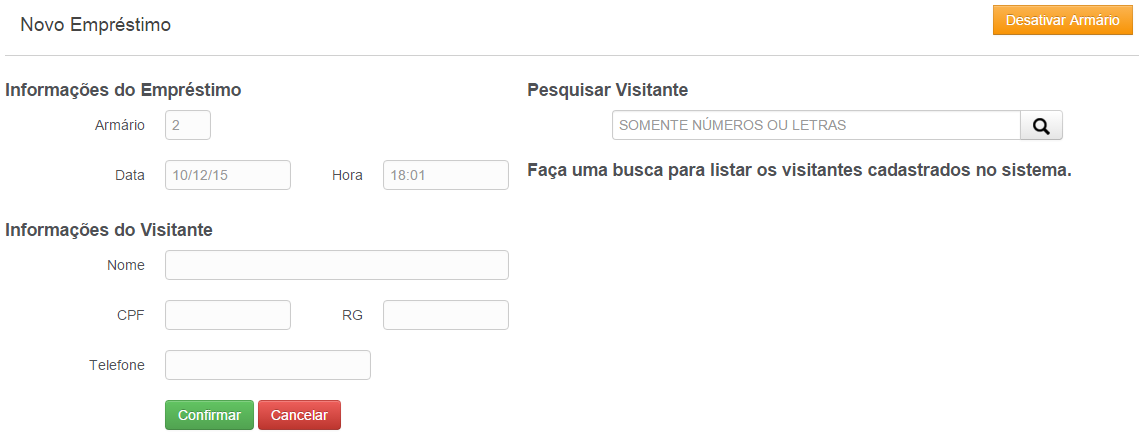
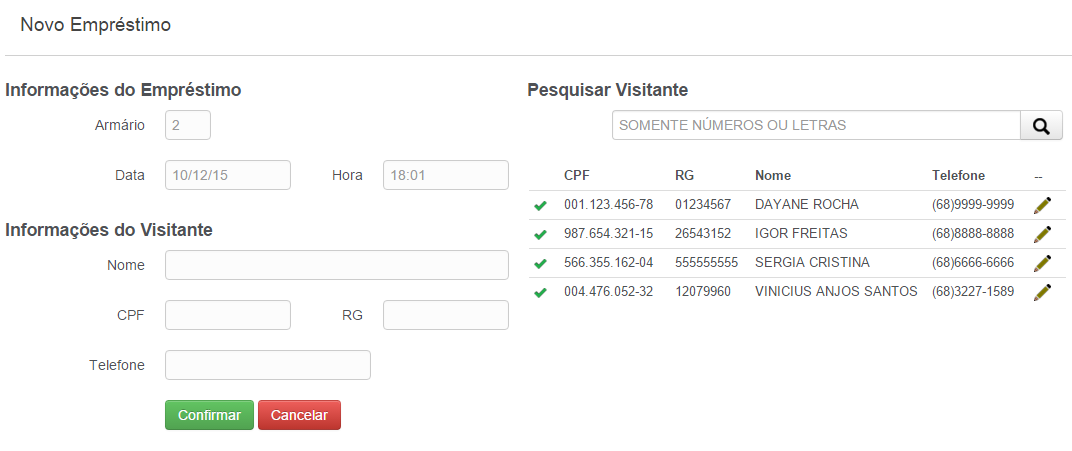
v.1.2.0

diff --git a/application/views/public/tour/presmapo.php b/application/views/public/tour/presmapo.php
@@ -53,8 +53,9 @@ defined('BASEPATH') OR exit('No direct script access allowed');
                                                                 Ao clicar em um botão de cor verde, é aberta a página de empréstimo.
                                                                 Nela temos as informações sobre o empréstimo e visitante, e um espaço
                                                                 para pesquisa, que pode ser feita por CPF, RG ou Nome.<br />
-                                                                Apos a pesquisa realizada, uma lista de usuários será carregada, onde deve-se clicar no ícone <img title="Selcionar" src="<?= base_url('assets/img/icon/select.png'); ?>" class="img-responsive" height="13" width="13">
-                                                                para selecionar o usuário.
+                                                                <h5>Veja que a forma de pesquisa mudou. Agora, basta digitar a informação de CPF, RG ou Nome, sem a necessidade de pontos ou traços, e pesquisar.</h5>
+                                                                Apos a pesquisa realizada, uma lista de visitantes será carregada, onde deve-se clicar no ícone <img title="Selcionar" src="<?= base_url('assets/img/icon/select.png'); ?>" class="img-responsive" height="13" width="13">
+                                                                para selecionar o visitante.
                                                                 Após selecionado, o empréstimo pode ser confirmado clicando no botão "Confirmar".
                                                             </p>
                                                         </div>
@@ -107,10 +108,11 @@ defined('BASEPATH') OR exit('No direct script access allowed');
                                                         <div class="caption">
                                                             <hr />
                                                             <p align="justify">
-                                                                Ao clicar em um botão de cor laranja, é aberta a página de reativação.
+                                                                Ao clicar em um botão de cor laranja, é aberta a página com informação sobre um armário desativado.
                                                                 Nela temos as informações sobre a desativação do armário, como data, hora e motivo. Não é possível editar
                                                                 nenhum destes campos, presentes apenas para informação.<br />
-                                                                Clicando no botão "Confirmar", a reativação é concluída e o armário passa a se tornar disponível para empréstimo.
+                                                                <h5>Perceba que a funcionalidade de desativar armários não está mais presente. Ela é, agora, exclusiva para os administradores do sistema.</h5>
+                                                                Clicando no botão "Voltar", você é redirecionado para a página de mapa de armários.
                                                             </p>
                                                         </div>
                                                     </div>

diff --git a/application/views/public/norole.php b/application/views/public/norole.php
@@ -1,41 +1,43 @@
 <?php
 defined('BASEPATH') OR exit('No direct script access allowed');
-
 ?>
 <!DOCTYPE html>
 <html lang="en">
     <head>
-        <title>CCB - Sobre</title>
+        <title>CCB - Sem permissão</title>
         <meta charset="utf-8">
-        <link href="<?= base_url('assets/css/bootstrap-responsive.css');?>" rel="stylesheet" media="screen">
-        <link href="<?= base_url('assets/css/bootstrap-responsive.min.css');?>" rel="stylesheet" media="screen">
-        <link href="<?= base_url('assets/css/bootstrap.css');?>" rel="stylesheet" media="screen">
-        <link href="<?= base_url('assets/css/bootstrap.min.css');?>" rel="stylesheet" media="screen">
-        <link href="<?= base_url('assets/css/codeigniter.css');?>" rel="stylesheet" media="screen">
+        <link href="<?= base_url('assets/css/bootstrap-responsive.css'); ?>" rel="stylesheet" media="screen">
+        <link href="<?= base_url('assets/css/bootstrap-responsive.min.css'); ?>" rel="stylesheet" media="screen">
+        <link href="<?= base_url('assets/css/bootstrap.css'); ?>" rel="stylesheet" media="screen">
+        <link href="<?= base_url('assets/css/bootstrap.min.css'); ?>" rel="stylesheet" media="screen">
+        <link href="<?= base_url('assets/css/codeigniter.css'); ?>" rel="stylesheet" media="screen">
+        <link rel="icon" href="<?= base_url(); ?>assets/img/favicon.png" type="image/x-icon" />
     </head>
     <body>
+
+        <div class="masthead">
+            <ul class="nav nav-pills pull-right">
+                <li class="active"><a href="<?= base_url('welcome'); ?>">Início</a></li>
+            </ul>
+            <h3 class="muted">Sistema de Controle de Chaves da Biblioteca</h3>
+        </div>
+        <hr>
         <div class="container">
             <div class="row">
-                <div class="jumbotron">
-                    <a class="btn btn-large btn-primary" href="<?= base_url();?>">Início</a>
-                </div>
-
-                <hr>
-
-                  <div class="row-fluid marketing">
-                    <div class="span12">
-                        <h2>Desculpe!</h2>
-                        <h4>
-                            <p>
-                                <br />
-                                Aparentemente você não tem permissão para acessar essa página. 
-                                <br />
-                                <br />
-                                Entre em contato com a Equipe de TI para mais informações.
-                            </p>
-                        </h4>
-                    </div>
+                <div class="row-fluid marketing">
+                  <div class="span12">
+                      <h2>Desculpe!</h2>
+                      <h4>
+                          <p>
+                              <br />
+                              Aparentemente você não tem permissão para acessar essa página. 
+                              <br />
+                              <br />
+                              Entre em contato com a Equipe de TI para mais informações.
+                          </p>
+                      </h4>
                   </div>
+                </div>
             </div>
         </div>
     </body>

diff --git a/application/views/public/tour/presmapg.php b/application/views/public/tour/presmapg.php
@@ -53,8 +53,11 @@ defined('BASEPATH') OR exit('No direct script access allowed');
                                                                 Ao clicar em um botão de cor verde, é aberta a página de empréstimo.
                                                                 Nela temos as informações sobre o empréstimo e visitante, e um espaço
                                                                 para pesquisa, que pode ser feita por CPF, RG ou Nome.<br />
+                                                                <h5>Veja que a forma de pesquisa mudou. Agora, basta digitar a informação de CPF, RG ou Nome, sem a necessidade de pontos ou traços, e pesquisar.</h5>
                                                                 Apos a pesquisa realizada, uma lista de visitantes será carregada, onde deve-se clicar no ícone <img title="Selcionar" src="<?= base_url('assets/img/icon/select.png'); ?>" class="img-responsive" height="13" width="13">
                                                                 para selecionar o visitante.
+                                                                <h5>Perceba que ao fim de cada visitante listado, temos um ícone de lápis. Ele serve como atalho para a página de edição
+                                                                    de visitante.</h5>
                                                                 Após selecionado, o empréstimo pode ser confirmado clicando no botão "Confirmar".
                                                             </p>
                                                         </div>

diff --git a/application/views/public/tour/presentrance.php b/application/views/public/tour/presentrance.php
@@ -44,8 +44,9 @@ defined('BASEPATH') OR exit('No direct script access allowed');
                                     Apos a pesquisa realizada, uma lista de usuários será carregada, onde deve-se clicar no ícone 
                                     <img title="Selcionar" src="<?= base_url('assets/img/icon/select.png'); ?>" class="img-responsive" 
                                          height="13" width="13"> para selecionar o usuário.<br />
+                                    <h5>Veja que a forma de pesquisa mudou. Agora, basta digitar a informação de CPF, RG ou Nome, sem a necessidade de pontos ou traços, e pesquisar.</h5>
                                     Após selecionado, o registro de entrada pode ser confirmado clicando no botão "Confirmar".<br />
-                                    Caso um usuário já tenha um emprástimo em curso, não é necessário registrar a entrada, pois ela é
+                                    Caso um usuário já tenha um empréstimo em curso, não é necessário registrar a entrada, pois ela é
                                     feita automaticamento ao emprestar uma chave.
                                 </p>
                             <br />

diff --git a/application/views/public/tour/presvisitors.php b/application/views/public/tour/presvisitors.php
@@ -53,6 +53,9 @@ defined('BASEPATH') OR exit('No direct script access allowed');
                                     - Clicando neste ícone, é aberta a página para edição do cadastro do visitante.<br />
                                     <img title="Remover" src="<?= base_url('assets/img/icon/remove.png'); ?>" height="17" width="17">
                                     - Clicando neste ícone, acontece a remoção do cadastro do visitante.<br />
+                                    <h5>Veja que a forma de pesquisa mudou. Agora, basta digitar a informação de CPF, RG ou Nome, sem a necessidade de pontos ou traços, e pesquisar.<br />
+                                        Outra mudança fica a cargo de novos cadastros ou atualização. Após concluído algum dos dois, o visitante já é apresentado 
+                                        automaticamente na lista.</h5>
                                     No fim temos um botão "Novo visitante", que nos leva para o formulário de cadastro de visitante.
                                 </p>
                             </div>

diff --git a/application/views/public/tour/presnewvis.php b/application/views/public/tour/presnewvis.php
@@ -43,6 +43,8 @@ defined('BASEPATH') OR exit('No direct script access allowed');
                                     alterada. <br />
                                     Todos os campos contem validação, então devem ser cuidadosamente preenchidos com
                                     as informações corretamente. <br />
+                                    <h5>Incluída verificação no momento do preenchimento do formulário. Caso algo esteja fora do permitido, uma mensagem aparecerá
+                                        instantâneamente.</h5>
                                     Após todos os campos preenchidos corretamente, o cadastro pode ser concluído clicando
                                     no botão "Confirmar".
                                 </p>

diff --git a/application/views/public/tour/presflow.php b/application/views/public/tour/presflow.php
@@ -57,7 +57,7 @@ defined('BASEPATH') OR exit('No direct script access allowed');
                 <div class="jumbotron">
                     <a class="btn btn-warning" href="<?= base_url('help/skip');?>">Pular tutorial</a>
                     <a class="btn btn-primary pull-right" href="<?= base_url('help/init/8');?>">Próximo &raquo;</a>
-                    <a style="margin-right: 10px;" class="btn btn-primary pull-right" href="<?= base_url('help/init/6');?>">&laquo; Anterior</a>
+                    <a style="margin-right: 10px;" class="btn btn-primary pull-right" href="<?= base_url('help/init/2');?>">&laquo; Anterior</a>
                 </div>
             </div>
         </div>

diff --git a/application/views/public/tour/presmap.php b/application/views/public/tour/presmap.php
@@ -124,7 +124,7 @@ defined('BASEPATH') OR exit('No direct script access allowed');
                 <hr />
                 <div class="jumbotron">
                     <a class="btn btn-warning" href="<?= base_url('help/skip');?>">Pular tutorial</a>
-                    <a class="btn btn-primary pull-right" href="<?= base_url('help/init/6');?>">Próximo &raquo;</a>
+                    <a class="btn btn-primary pull-right" href="<?= base_url('help/init/7');?>">Próximo &raquo;</a>
                     <a style="margin-right: 10px;" class="btn btn-primary pull-right" href="<?= base_url('help/init/1');?>">&laquo; Anterior</a>
                 </div>
             </div>

diff --git a/application/views/public/tour/finish.php b/application/views/public/tour/finish.php
@@ -46,6 +46,7 @@ defined('BASEPATH') OR exit('No direct script access allowed');
                 <div class="jumbotron">
                     <a class="btn btn-warning" href="<?= base_url('help/init');?>">Reiniciar tutorial</a>
                     <a class="btn btn-primary pull-right" href="<?= base_url('help/skip');?>">Finalizar tutorial</a>
+                    <a style="margin-right: 10px;" class="btn btn-primary pull-right" href="<?= base_url('help/init/10');?>">&laquo; Anterior</a>
                 </div>
             </div>
         </div>

diff --git a/application/views/public/tour/presentation.php b/application/views/public/tour/presentation.php
@@ -47,7 +47,7 @@ defined('BASEPATH') OR exit('No direct script access allowed');
                 <hr />
                 <div class="jumbotron">
                     <a class="btn btn-warning" href="<?= base_url('help/skip');?>">Pular tutorial</a>
-                    <a class="btn btn-primary pull-right" href="<?= base_url('help/init');?>">Iniciar tutorial</a>
+                    <a class="btn btn-success pull-right" href="<?= base_url('help/init');?>">Iniciar tutorial</a>
                 </div>
             </div>
         </div>

diff --git a/application/views/public/about.php b/application/views/public/about.php
@@ -48,7 +48,7 @@ defined('BASEPATH') OR exit('No direct script access allowed');
             </div>
             <div class="span4" style="width: 290px">
                 <div class="nav-pills">
-                    <h4 align="center">Equipe de Desenvolvimento</h4>
+                    <h4 align="center">Desenvolvimento</h4>
                     <div class="caption">
                         <p align="center">
                             Dayane Rocha<br />

diff --git a/application/controllers/Help.php b/application/controllers/Help.php
@@ -38,9 +38,6 @@ class Help extends CI_Controller {
                 case 5:
                     $this->load->view('public/tour/presmapo');
                     break;
-                case 6:
-                    $this->load->view('public/tour/presdeact');
-                    break;
                 case 7:
                     $this->load->view('public/tour/presflow');
                     break;
